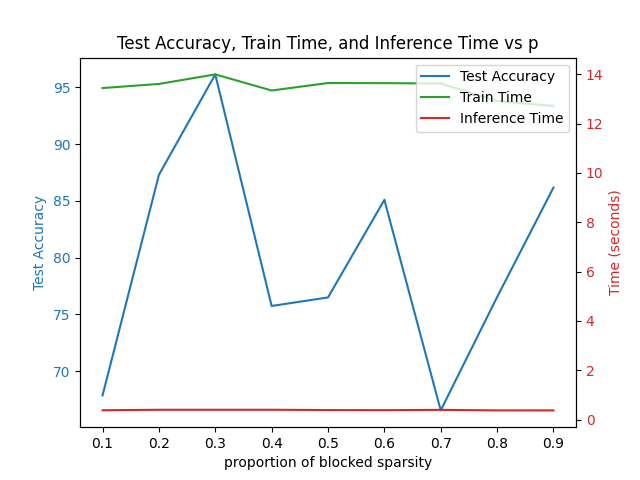
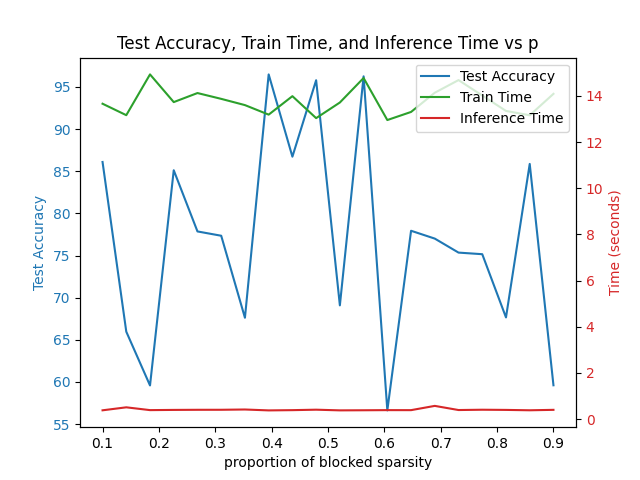
oops no relu

diff --git a/models/MLP.py b/models/MLP.py
@@ -6,8 +6,8 @@ class MLP(nn.Module):
     def __init__(self):
         super(MLP, self).__init__()
         self.flatten = nn.Flatten() 
-        self.fc1 = nn.Linear(28 * 28, 32) 
-        self.fc2 = nn.Linear(32, 16)
+        self.fc1 = nn.Linear(28 * 28, 128) 
+        self.fc2 = nn.Linear(128, 16)
         self.fc3 = nn.Linear(16, 10)
         self.relu = nn.ReLU()
 
@@ -16,8 +16,9 @@ class MLP(nn.Module):
         x = self.relu(self.fc1(x))
         x = self.relu(self.fc2(x))
         # x = self.relu(self.fc3(x))
-        x = self.fc3(x)  
+        x = self.fc3(x)
         return x
 
     def summary(self):
         summary(self, input_size=(1, 28, 28))
+    

diff --git a/graph.py b/graph.py
@@ -33,7 +33,7 @@ test_loader = DataLoader(test_dataset, batch_size=batch_size, shuffle=False)
 
 plot_df = []
 
-for p in tqdm(np.linspace(0.1, 0.9, 20)):
+for p in tqdm(np.linspace(0.1, 0.9, 100)):
     model = MLP_rand(p=p, block_size=4).to(device)
     # model.summary()
 
@@ -89,6 +89,7 @@ for p in tqdm(np.linspace(0.1, 0.9, 20)):
         'train_time': train_time,
         'inference_time': inference_time
     })
+    print(f'p = {p}, Test Accuracy: {test_accuracy:.2f}%, Train Time: {train_time:.2f} seconds, Inference Time: {inference_time:.2f} seconds')
 
 plot_df = pd.DataFrame(plot_df)
 

diff --git a/models/MLP_rand.py b/models/MLP_rand.py
@@ -51,7 +51,7 @@ class MLP_rand(nn.Module):
             self.fc2.weight.mul_(self.mask)
 
         x = self.relu(self.fc2(x))
-        x = self.relu(self.fc3(x))
+        x = self.fc3(x)
 
         return x
 
